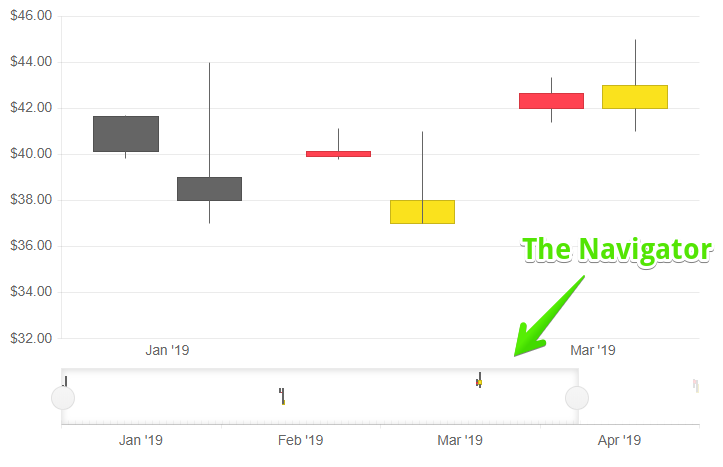
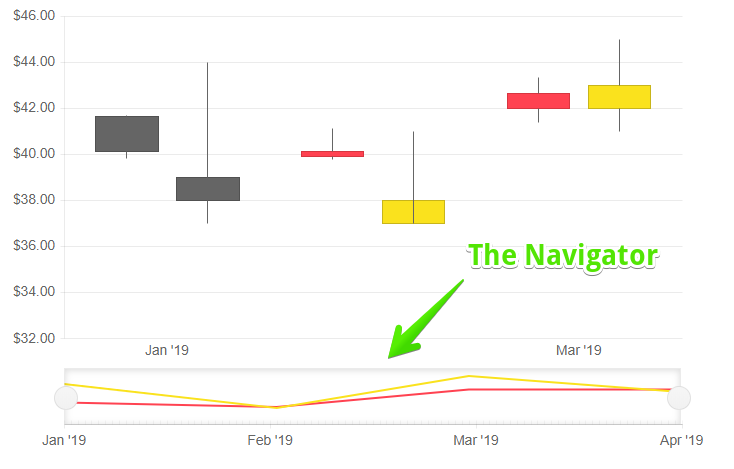
chore(stockchart): updated navigator article

diff --git a/components/stockchart/navigator.md b/components/stockchart/navigator.md
@@ -47,23 +47,20 @@ To enable data navigation you have to:
                    DateField="@nameof(StockDataPoint.Date)">
 
     <StockChartNavigator>
+
         <StockChartNavigatorSeriesItems>
-            <StockChartNavigatorSeries Type="StockChartSeriesType.Candlestick"
+            <StockChartNavigatorSeries Type="StockChartSeriesType.Line"
                                        Name="Product 1"
                                        Data="@StockChartProduct1Data"
-                                       OpenField="@nameof(StockDataPoint.Open)"
-                                       CloseField="@nameof(StockDataPoint.Close)"
-                                       HighField="@nameof(StockDataPoint.High)"
-                                       LowField="@nameof(StockDataPoint.Low)">
+                                       Field="@nameof(StockDataPoint.High)"
+                                       CategoryField="@nameof(StockDataPoint.Date)">
             </StockChartNavigatorSeries>
 
-            <StockChartNavigatorSeries Type="StockChartSeriesType.Candlestick"
+            <StockChartNavigatorSeries Type="StockChartSeriesType.Line"
                                        Name="Product 2"
                                        Data="@StockChartProduct2Data"
-                                       OpenField="@nameof(StockDataPoint.Open)"
-                                       CloseField="@nameof(StockDataPoint.Close)"
-                                       HighField="@nameof(StockDataPoint.High)"
-                                       LowField="@nameof(StockDataPoint.Low)">
+                                       Field="@nameof(StockDataPoint.High)"
+                                       CategoryField="@nameof(StockDataPoint.Date)">
             </StockChartNavigatorSeries>
         </StockChartNavigatorSeriesItems>
 
@@ -109,7 +106,7 @@ To enable data navigation you have to:
     public async Task GenerateChartData()
     {
         StockChartProduct1Data = new List<StockDataPoint>()
-        {
+    {
             new StockDataPoint(new DateTime(2019, 1, 1), 41.62m, 40.12m, 41.69m, 39.81m, 2632000),
             new StockDataPoint(new DateTime(2019, 2, 1), 39.88m, 40.12m, 41.12m, 39.75m, 3584700),
             new StockDataPoint(new DateTime(2019, 3, 1), 42m, 42.62m, 43.31m, 41.38m, 7631700),
@@ -117,7 +114,7 @@ To enable data navigation you have to:
         };
 
         StockChartProduct2Data = new List<StockDataPoint>()
-        {
+    {
             new StockDataPoint(new DateTime(2019, 1, 1), 39m, 38m, 44m, 37m, 26320),
             new StockDataPoint(new DateTime(2019, 2, 1), 37m, 38m, 41m, 40m, 35847),
             new StockDataPoint(new DateTime(2019, 3, 1), 42m, 43m, 45m, 41m, 76317),
@@ -188,14 +185,14 @@ You can control from which side (or both) the data navigation with shorten the t
         </StockChartNavigatorCategoryAxis>
 
         <StockChartNavigatorSeriesItems>
-            <StockChartNavigatorSeries Type="StockChartSeriesType.Column"
+            <StockChartNavigatorSeries Type="StockChartSeriesType.Line"
                                        Name="Product 1"
                                        Data="@StockChartProduct1Data"
                                        Field="@nameof(StockDataPoint.Open)"
                                        CategoryField="@nameof(StockDataPoint.Date)">
             </StockChartNavigatorSeries>
 
-            <StockChartNavigatorSeries Type="StockChartSeriesType.Column"
+            <StockChartNavigatorSeries Type="StockChartSeriesType.Line"
                                        Name="Product 2"
                                        Data="@StockChartProduct2Data"
                                        Field="@nameof(StockDataPoint.Open)"
